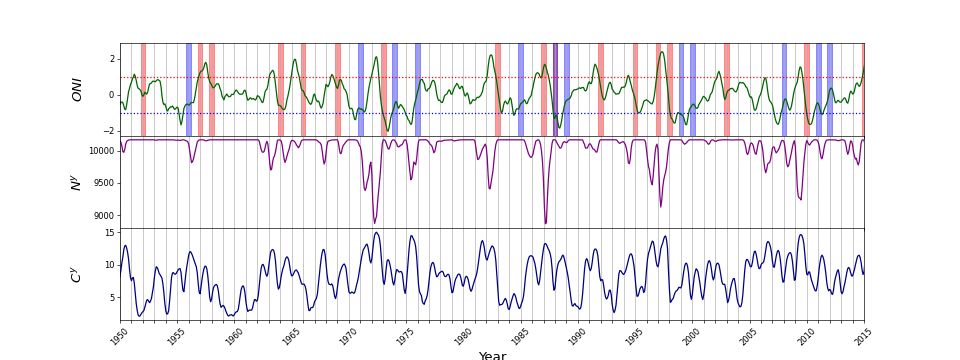
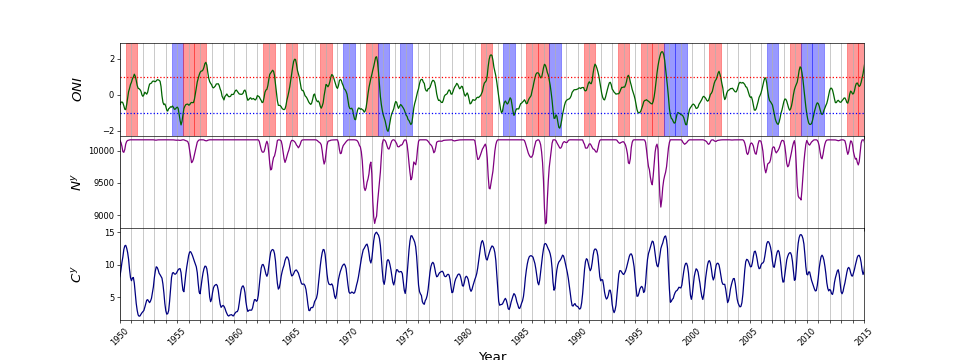
Update plots

Changed region(s): [[0.5, 0.1222, 0.9062, 0.3972], [0.125, 0.1222, 0.4375, 0.3972]]

diff --git a/evolution_plotting.py b/evolution_plotting.py
@@ -151,10 +151,10 @@ fig.align_ylabels([ax0, ax1, ax2])
 # we highlight the el-nino and la-nina years
 for i in range(68):
        if np.max(oni_data_flat[i*12 : (i+1)*12]) > 1:
-              ax0.axvspan(1950 + i - 0.2, 1950 + i + 0.2,
+              ax0.axvspan(1949 + i - 0.5, 1949 + i + 0.5,
                           alpha = 0.4, color = 'red')
-       if np.min(oni_data_flat[i*12 : (i+1)*12]) < -1:
-              ax0.axvspan(1950 + i - 0.2, 1950 + i + 0.2,
+       elif np.min(oni_data_flat[i*12 : (i+1)*12]) < -1:
+              ax0.axvspan(1949 + i - 0.5, 1949 + i + 0.5,
                           alpha = 0.4, color = 'blue')       
 
 # adjust final size and save to png
